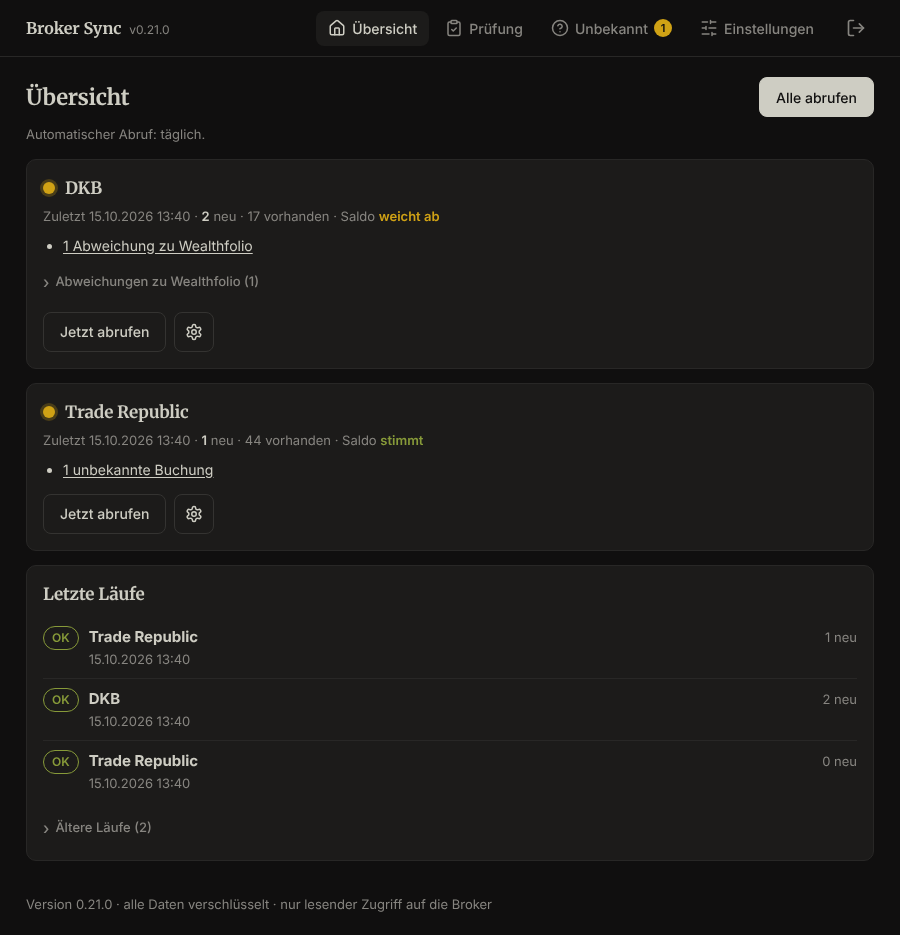
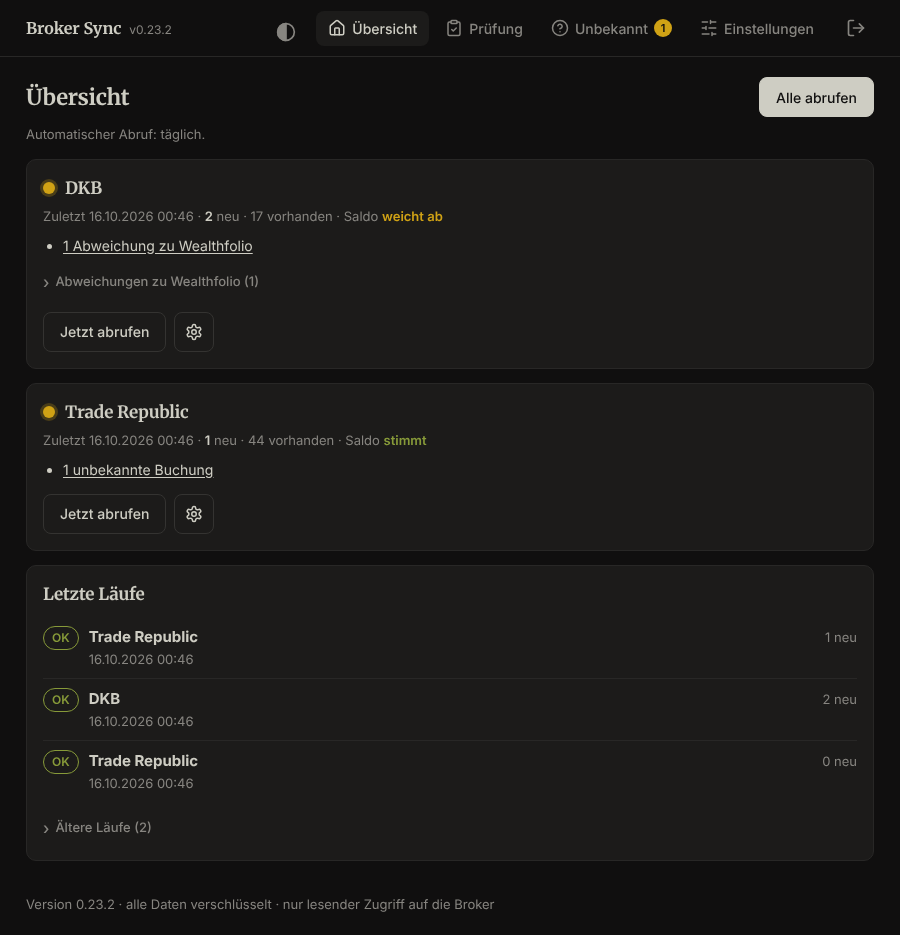
0.24.0: switch light/dark from the header, start in the device's colours
waldonso2/wealthfolio-importer-addon#123: a symbol in the header (a
checkbox #theme-toggle with its label, autocomplete="off") turns the
device's colour scheme the other way; CSS only via
:root:has(#theme-toggle:checked), so no script and the CSP is unchanged.
After a reload the switch is off: every visit starts in the device's
colours. The fixed scheme on *Darstellung* (Config.ui_theme, data-theme)
is gone; a saved one is ignored on load. Screenshots renewed.

Claude-Session: https://claude.ai/code/session_01EDQ2zjWR5XvNKi8sfNNNeG

diff --git a/src/brokersync/web/static/style.css b/src/brokersync/web/static/style.css
@@ -14,20 +14,23 @@
   --serif: "Merriweather", ui-serif, Georgia, serif;
   color-scheme: light;
 }
-/* Colour scheme (page Darstellung): the device's setting, or always light / always dark (data-theme). */
+/* Colour scheme: the device's, turned the other way while the header's switch is on (#123) - CSS only, no
+   script; after a reload the switch is off again, so every visit starts in the device's colours. */
 @media (prefers-color-scheme: dark) {
-  :root:not([data-theme="light"]) {
+  :root:not(:has(#theme-toggle:checked)) {
     --bg: #100f0f; --card: #1c1b1a; --line: #282726; --line-2: #343331; --text: #cecdc3; --muted: #878580;
     --primary: #cecdc3; --on-primary: #100f0f; --accent: #4385be;
     --ok: #879a39; --warn: #d0a215; --error: #e0614f; --grey: #7a7974;
     color-scheme: dark;
   }
 }
-:root[data-theme="dark"] {
+@media (prefers-color-scheme: light) {
+  :root:has(#theme-toggle:checked) {
     --bg: #100f0f; --card: #1c1b1a; --line: #282726; --line-2: #343331; --text: #cecdc3; --muted: #878580;
     --primary: #cecdc3; --on-primary: #100f0f; --accent: #4385be;
     --ok: #879a39; --warn: #d0a215; --error: #e0614f; --grey: #7a7974;
     color-scheme: dark;
+  }
 }
 
 * { box-sizing: border-box; }
@@ -59,6 +62,10 @@ nav.main a:hover { background: var(--card); color: var(--text); }
 nav.main a[aria-current] { background: var(--card); color: var(--text); }
 nav.main svg { width: 18px; height: 18px; flex: none; }
 form.logout { display: inline; margin: 0; }
+.theme-switch { display: inline-flex; padding: 8px; border-radius: 8px; color: var(--muted); cursor: pointer; }
+.theme-switch:hover { background: var(--card); color: var(--text); }
+.theme-switch svg { width: 20px; height: 20px; }
+:root:has(#theme-toggle:focus-visible) .theme-switch { outline: 2px solid var(--accent); outline-offset: 2px; }
 .count { display: inline-block; min-width: 18px; padding: 0 5px; border-radius: 99px; background: var(--warn);
   color: var(--on-primary); font-size: 11px; font-weight: 600; line-height: 18px; text-align: center; }
 

diff --git a/src/brokersync/web/templates/base.html b/src/brokersync/web/templates/base.html
@@ -1,10 +1,10 @@
 <!doctype html>
-<html lang="{{ lang | default('de') }}"{% if theme in ("light", "dark") %} data-theme="{{ theme }}"{% endif %}>
+<html lang="{{ lang | default('de') }}">
 <head>
 <meta charset="utf-8">
 <meta name="viewport" content="width=device-width, initial-scale=1, viewport-fit=cover">
-{% if theme == "light" %}<meta name="theme-color" content="#fffcf0">{% elif theme == "dark" %}<meta name="theme-color" content="#100f0f">{% else %}<meta name="theme-color" content="#fffcf0" media="(prefers-color-scheme: light)">
-<meta name="theme-color" content="#100f0f" media="(prefers-color-scheme: dark)">{% endif %}
+<meta name="theme-color" content="#fffcf0" media="(prefers-color-scheme: light)">
+<meta name="theme-color" content="#100f0f" media="(prefers-color-scheme: dark)">
 <title>{% block title %}Broker Sync{% endblock %} · Wealthfolio Broker Sync</title>
 <link rel="stylesheet" href="/static/style.css">
 {% block head %}{% endblock %}
@@ -13,6 +13,8 @@
 <body{% if request.session.get("user") %} class="has-tabs"{% endif %}>
 <header><div class="wrap">
   <a class="brand" href="/">Broker Sync <span class="version">v{{ version }}</span></a>
+  <input type="checkbox" id="theme-toggle" class="sr-only" autocomplete="off">
+  <label for="theme-toggle" class="theme-switch" title="{{ _('Hell/Dunkel umschalten') }}">{{ icon("theme") }}<span class="sr-only">{{ _("Hell/Dunkel umschalten") }}</span></label>
   {% if request.session.get("user") %}
   {% set path = request.url.path %}
   {% set in_settings = path == "/settings" or path.startswith("/brokers") or path in settings_pages | map(attribute=0) | list %}

diff --git a/src/brokersync/web/templates/_icons.html b/src/brokersync/web/templates/_icons.html
@@ -5,6 +5,7 @@
 {%- elif name == "unknown" %}<circle cx="12" cy="12" r="10"/><path d="M9.09 9a3 3 0 0 1 5.83 1c0 2-3 3-3 3"/><path d="M12 17h.01"/>
 {%- elif name == "settings" %}<path d="M21 4h-7M10 4H3M21 12h-9M8 12H3M21 20h-5M12 20H3M14 2v4M8 10v4M16 18v4"/>
 {%- elif name == "gear" %}<path d="M12.22 2h-.44a2 2 0 0 0-2 2v.18a2 2 0 0 1-1 1.73l-.43.25a2 2 0 0 1-2 0l-.15-.08a2 2 0 0 0-2.73.73l-.22.38a2 2 0 0 0 .73 2.73l.15.1a2 2 0 0 1 1 1.72v.51a2 2 0 0 1-1 1.74l-.15.09a2 2 0 0 0-.73 2.73l.22.38a2 2 0 0 0 2.73.73l.15-.08a2 2 0 0 1 2 0l.43.25a2 2 0 0 1 1 1.73V20a2 2 0 0 0 2 2h.44a2 2 0 0 0 2-2v-.18a2 2 0 0 1 1-1.73l.43-.25a2 2 0 0 1 2 0l.15.08a2 2 0 0 0 2.73-.73l.22-.39a2 2 0 0 0-.73-2.73l-.15-.08a2 2 0 0 1-1-1.74v-.5a2 2 0 0 1 1-1.74l.15-.09a2 2 0 0 0 .73-2.73l-.22-.38a2 2 0 0 0-2.73-.73l-.15.08a2 2 0 0 1-2 0l-.43-.25a2 2 0 0 1-1-1.73V4a2 2 0 0 0-2-2z"/><circle cx="12" cy="12" r="3"/>
+{%- elif name == "theme" %}<circle cx="12" cy="12" r="10"/><path d="M12 2a10 10 0 0 0 0 20z" fill="currentColor"/>
 {%- elif name == "logout" %}<path d="M9 21H5a2 2 0 0 1-2-2V5a2 2 0 0 1 2-2h4"/><path d="m16 17 5-5-5-5"/><path d="M21 12H9"/>
 {%- endif %}</svg>
 {%- endmacro %}

diff --git a/src/brokersync/web/templates/appearance.html b/src/brokersync/web/templates/appearance.html
@@ -4,10 +4,7 @@
   <h1>{{ _("Darstellung") }}</h1>
   <form method="post">
     <input type="hidden" name="csrf" value="{{ csrf }}">
-    <label for="theme">{{ _("Farbschema") }}</label>
-    <select id="theme" name="theme">
-      {% for value, label in themes.items() %}<option value="{{ value }}" {{ 'selected' if cfg.ui_theme == value }}>{{ _(label) }}</option>{% endfor %}
-    </select>
+    <p class="muted">{{ _("Hell oder dunkel: wie das Gerät. Das Symbol oben schaltet bis zum Neuladen um.") }}</p>
     <label for="language">{{ _("Sprache") }}</label>
     <select id="language" name="language">
       {% for value, label in languages.items() %}<option value="{{ value }}" {{ 'selected' if cfg.ui_language == value }}>{{ label }}</option>{% endfor %}

diff --git a/tests/test_views.py b/tests/test_views.py
@@ -112,18 +112,39 @@ def test_overview_card_has_two_buttons_and_the_reasons_link_to_their_page(tmp_pa
     assert ">Unbekannte<" not in card and ">Prüfen<" not in card
 
 
-def test_colour_scheme_and_language_are_chosen_on_the_page_appearance(tmp_path):
+def test_the_language_is_chosen_on_the_page_appearance_light_or_dark_in_the_header(tmp_path):
     from brokersync import config as config_mod
 
     from .test_safe_mode import make as make_safe
 
     client, _, token = make_safe(tmp_path, safe=False)
-    assert "data-theme" not in client.get("/").text  # default: as the device
-    r = client.post("/appearance", data={"csrf": token, "theme": "light", "language": "en"})
-    assert "Saved." in r.text and '<html lang="en" data-theme="light">' in r.text  # in the new language
-    assert (config_mod.load(tmp_path).ui_theme, config_mod.load(tmp_path).ui_language) == ("light", "en")
-    assert 'data-theme="dark"' in client.post("/appearance", data={"csrf": token, "theme": "dark"}).text
-    assert "Unbekannte Auswahl" in client.post("/appearance", data={"csrf": token, "theme": "pink"}).text
+    page = client.get("/").text
+    # #123: every page starts in the device's colours; the header's switch turns them until a reload, CSS only.
+    assert "data-theme" not in page and "<script" not in page
+    assert 'id="theme-toggle"' in page and 'autocomplete="off"' in page and 'for="theme-toggle"' in page
+    assert ">Hell/Dunkel umschalten<" in page  # named for screen readers
+    assert 'name="theme"' not in client.get("/appearance").text
+    r = client.post("/appearance", data={"csrf": token, "language": "en"})
+    assert "Saved." in r.text and '<html lang="en">' in r.text and ">Switch light/dark<" in r.text
+    assert config_mod.load(tmp_path).ui_language == "en"
+    assert "Unknown choice" in client.post("/appearance", data={"csrf": token, "language": "fr"}).text
+
+
+def test_a_saved_fixed_colour_scheme_of_before_is_ignored(tmp_path):
+    import json
+    from dataclasses import asdict
+
+    from brokersync import config as config_mod
+    from brokersync import crypto
+
+    config_mod.save(tmp_path, config_mod.Config(ui_language="en"))
+    data = {**asdict(config_mod.Config(ui_language="en")), "ui_theme": "dark"}  # as stored before #123
+    for k in config_mod.NOTIFY_FIELDS:
+        data.pop(k)
+    crypto.write_atomic(tmp_path / "config.enc",
+                        crypto.seal(crypto.data_key(tmp_path), json.dumps(data).encode(), "config"))
+    c = config_mod.load(tmp_path)
+    assert c.ui_language == "en" and not hasattr(c, "ui_theme")
 
 
 def test_the_colours_meet_wcag_aa_in_both_schemes():
@@ -133,7 +154,8 @@ def test_the_colours_meet_wcag_aa_in_both_schemes():
 
     css = (Path(__file__).parent.parent / "src" / "brokersync" / "web" / "static" / "style.css").read_text()
     light = dict(re.findall(r"--([a-z-]+): (#[0-9a-f]{6})", css.split("@media")[0]))
-    dark = dict(re.findall(r"--([a-z-]+): (#[0-9a-f]{6})", css.split(':root[data-theme="dark"]')[1].split("}")[0]))
+    switched = css.split(":root:has(#theme-toggle:checked) {")[1]
+    dark = dict(re.findall(r"--([a-z-]+): (#[0-9a-f]{6})", switched.split("}")[0]))
 
     def lum(h):
         c = [int(h[i:i + 2], 16) / 255 for i in (1, 3, 5)]

diff --git a/src/brokersync/web/context.py b/src/brokersync/web/context.py
@@ -53,7 +53,7 @@ SETTINGS_PAGES = [
     ("/transfers", N_("Überträge"), N_("Auszahlungen auf eigene Konten erkennen")),
     ("/logos", N_("Logos"), N_("Logos der Wertpapiere von logo.dev")),
     ("/security", N_("Sicherheit"), N_("Abrufmodus, Verschlüsselung, Master-Passphrase, Zertifikat")),
-    ("/appearance", N_("Darstellung"), N_("Sprache, hell oder dunkel")),
+    ("/appearance", N_("Darstellung"), N_("Sprache")),
     # Hidden for now (waldonso2/wealthfolio-importer-addon#84):
     # ("/duplicates", N_("Duplikate"), N_("Doppelte Buchungen finden und entfernen")),
 ]
@@ -97,7 +97,7 @@ class AppContext:
         if not flash and self.job_result and request.session.get("user"):
             flash, self.job_result = self.job_result, None  # what a background job ended with (#104)
         nav_unknown = self.state.unknown_count() if request.session.get("user") else 0
-        theme, language = self.appearance()
+        language = self.language()
         try:
             patterns = bool(self.cfg().transfer_patterns)
         except Exception:  # locked: no settings pages anyway
@@ -105,7 +105,7 @@ class AppContext:
         pages = [p for p in SETTINGS_PAGES if p[0] != "/transfers" or patterns]
         return self.templates.TemplateResponse(request, name, {
             "csrf": request.session["csrf"], "flash": flash, "version": __version__, "adapters": self.adapters,
-            "nav_unknown": nav_unknown, "settings_pages": pages, "theme": theme, "lang": language,
+            "nav_unknown": nav_unknown, "settings_pages": pages, "lang": language,
             "reauth": not recent(request), **ctx,
         })
 
@@ -130,13 +130,12 @@ class AppContext:
         request.session["auth"] = int(time.time())
         return None
 
-    def appearance(self) -> tuple[str, str]:
-        """Colour scheme and language of the pages; the defaults while the config can't be read (locked)."""
+    def language(self) -> str:
+        """Language of the pages; German while the config can't be read (locked)."""
         try:
-            c = self.cfg()
+            return self.cfg().ui_language
         except Exception:
-            return "system", "de"
-        return c.ui_theme, c.ui_language
+            return "de"
 
     def cfg(self) -> config_mod.Config:
         return config_mod.load(self.data_dir)
@@ -213,7 +212,7 @@ Ctx = Annotated[AppContext, Depends(get_ctx)]
 def language(request: Request) -> str:
     """The language of the pages (#87): ``Config.ui_language``, German while the config can't be read."""
     ctx = getattr(request.app.state, "ctx", None)
-    return ctx.appearance()[1] if ctx is not None else "de"
+    return ctx.language() if ctx is not None else "de"
 
 
 def tr(request: Request, text: str, **params) -> str:

diff --git a/src/brokersync/web/routes/settings.py b/src/brokersync/web/routes/settings.py
@@ -215,23 +215,22 @@ def logos_save(request: Request, ctx: Ctx, enabled: str = Form(""), token: str =
 
 
 # ── appearance ─────────────────────────────────────────────────────────────
-THEMES = {"system": N_("Wie das Gerät"), "light": N_("Hell"), "dark": N_("Dunkel")}
 # Each language under its own name, in every language.
 LANGUAGES = {"de": "Deutsch", "en": "English"}
 
 
 @router.get("/appearance", response_class=HTMLResponse)
 def appearance_page(request: Request, ctx: Ctx):
-    return ctx.render(request, "appearance.html", cfg=ctx.cfg(), themes=THEMES, languages=LANGUAGES)
+    return ctx.render(request, "appearance.html", cfg=ctx.cfg(), languages=LANGUAGES)
 
 
 @router.post("/appearance")
-def appearance_save(request: Request, ctx: Ctx, theme: str = Form("system"), language: str = Form("de")):
-    if theme not in THEMES or language not in LANGUAGES:
+def appearance_save(request: Request, ctx: Ctx, language: str = Form("de")):
+    if language not in LANGUAGES:
         return redirect(request, "/appearance", tr(request, "Unbekannte Auswahl."), "error")
 
     def change(c) -> None:
-        c.ui_theme, c.ui_language = theme, language
+        c.ui_language = language
 
     ctx.update(change)
     return redirect(request, "/appearance", tr(request, "Gespeichert."))  # already in the language just chosen

diff --git a/tests/test_i18n.py b/tests/test_i18n.py
@@ -11,7 +11,6 @@ from jinja2 import Environment, nodes
 from brokersync import audit, security
 from brokersync.web import i18n
 from brokersync.web.context import SETTINGS_PAGES, STATUS_LABEL
-from brokersync.web.routes.settings import THEMES
 
 from .fake_broker import CODE
 from .test_safe_mode import make as make_client
@@ -67,7 +66,7 @@ def template_keys() -> dict[str, str]:
 def test_every_ui_text_has_an_english_entry():
     keys = {**python_keys(), **template_keys()}
     # Shown through ``_(value)``: the values of these tables are keys too.
-    for value in [*STATUS_LABEL.values(), *THEMES.values(), *(t for _, title, hint in SETTINGS_PAGES
+    for value in [*STATUS_LABEL.values(), *(t for _, title, hint in SETTINGS_PAGES
                                                                 for t in (title, hint)),
                   audit.source({"comment": "[SYNC x:1]"}), audit.source({})]:
         keys.setdefault(value, "table")

diff --git a/src/brokersync/web/i18n.py b/src/brokersync/web/i18n.py
@@ -93,14 +93,12 @@ EN: dict[str, str] = {
     "Abrufmodus, Verschlüsselung, Master-Passphrase, Zertifikat":
         "Fetch mode, encryption, master passphrase, certificate",
     "Darstellung": "Appearance",
-    "Sprache, hell oder dunkel": "Language, light or dark",
     "Duplikate": "Duplicates",
     "Doppelte Buchungen finden und entfernen": "Find and remove duplicate bookings",
-    "Farbschema": "Colour scheme",
     "Sprache": "Language",
-    "Wie das Gerät": "Like the device",
-    "Hell": "Light",
-    "Dunkel": "Dark",
+    "Hell/Dunkel umschalten": "Switch light/dark",
+    "Hell oder dunkel: wie das Gerät. Das Symbol oben schaltet bis zum Neuladen um.":
+        "Light or dark: as the device. The symbol at the top switches until the page is reloaded.",
     # ── common words ──
     "Speichern": "Save",
     "Gespeichert.": "Saved.",

diff --git a/tests/test_ui_sessions.py b/tests/test_ui_sessions.py
@@ -229,11 +229,11 @@ def test_two_config_changes_at_once_both_stay(tmp_path):
             time.sleep(0.05)  # both inside read-change-write at once without the lock
         config_mod.update(tmp_path, apply)
 
-    threads = [threading.Thread(target=change, args=("ui_theme", "dark")),
+    threads = [threading.Thread(target=change, args=("sync_mode", "safe")),
                threading.Thread(target=change, args=("ui_language", "en"))]
     for t in threads:
         t.start()
     for t in threads:
         t.join()
     c = config_mod.load(tmp_path)
-    assert (c.ui_theme, c.ui_language) == ("dark", "en")
+    assert (c.sync_mode, c.ui_language) == ("safe", "en")

diff --git a/src/brokersync/web/app.py b/src/brokersync/web/app.py
@@ -146,7 +146,7 @@ def _error_pages(app: FastAPI, ctx: AppContext) -> None:
     async def unexpected(request: Request, exc: Exception):
         error_id = secrets.token_hex(3)  # 6 characters: 8 digits would be masked as an account number
         log.error("web UI: unexpected error %s on %s", error_id, request.url.path, exc_info=exc)
-        lang = ctx.appearance()[1]
+        lang = ctx.language()
         text = i18n.translate("Unerwarteter Fehler (Fehler-ID {id}). Die Einzelheiten stehen im Log des Dienstes.",
                               lang, id=error_id)
         back = i18n.translate("Zur Übersicht", lang)

diff --git a/src/brokersync/config.py b/src/brokersync/config.py
@@ -66,9 +66,8 @@ class Config:
     # "auto": sessions are kept, the timer fetches. "safe": every fetch needs a fresh login in the UI, the
     # session is ended after it, the timer only reminds (#85). For all brokers.
     sync_mode: str = "auto"
-    # Page Darstellung: "de" / "en"; "system" (the device's setting) / "light" / "dark".
+    # Page Darstellung: "de" / "en". Light or dark follows the device (header switch until a reload, #123).
     ui_language: str = "de"
-    ui_theme: str = "system"
 
     @property
     def safe_mode(self) -> bool:
